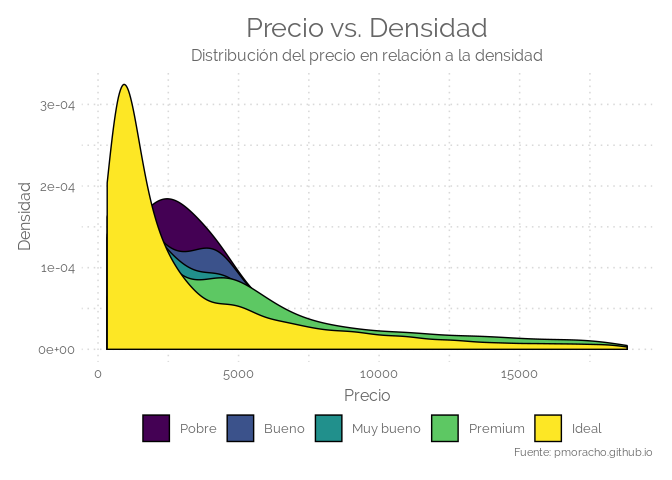
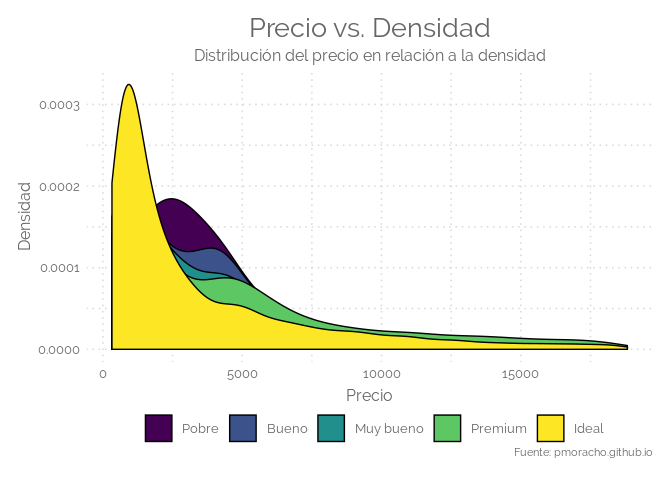
Work on new ggplot sample post

diff --git a/_posts/2019/2019-03-10-sample-ggplot-plots.md b/_posts/2019/2019-03-10-sample-ggplot-plots.md
@@ -288,6 +288,7 @@ Un gráfico de densidad muestra la distribución de una variable numérica. Sól
 library(ggplot2)
 
 data("diamonds")
+options(scipen=999)
 levels(diamonds$cut) <- c("Pobre", "Bueno", "Muy bueno", "Premium", "Ideal")
 
 # plot 1: Density of price for each type of cut of the diamond:
@@ -345,8 +346,104 @@ ggplot(diamonds, aes(x=depth, y=..density..)) +
     theme_elegante()
 ```
 
-<img src="/images/2019/2019-03-10-sample-ggplot-plots_files/figure-markdown_github/density-4.png" style="display: block; margin-left: auto; margin-right: auto" /> \#\# Stacked area chart
+<img src="/images/2019/2019-03-10-sample-ggplot-plots_files/figure-markdown_github/density-4.png" style="display: block; margin-left: auto; margin-right: auto" />
+
+Stacked area chart
+------------------
 
 Un gráfico de área apilada es la extensión de un gráfico de área básico para mostrar la evolución del valor de varios grupos en el mismo gráfico. Los valores de cada grupo se muestran uno encima del otro. Permite comprobar en una misma figura, la evolución tanto del total de una variable numérica, como de la importancia de cada grupo. Si sólo le interesa la importancia relativa de cada grupo, probablemente debería dibujar un gráfico de área apilada en porcentaje. Tenga en cuenta que esta tabla se vuelve difícil de leer si se muestran demasiados grupos y si los patrones son realmente diferentes entre grupos. En este caso, piense en utilizar facetas en su lugar.
 
-<img src="/images/2019/2019-03-10-sample-ggplot-plots_files/figure-markdown_github/stacked_areas-1.png" style="display: block; margin-left: auto; margin-right: auto" /><img src="/images/2019/2019-03-10-sample-ggplot-plots_files/figure-markdown_github/stacked_areas-2.png" style="display: block; margin-left: auto; margin-right: auto" /><img src="/images/2019/2019-03-10-sample-ggplot-plots_files/figure-markdown_github/stacked_areas-3.png" style="display: block; margin-left: auto; margin-right: auto" />
+``` r
+# DATA
+library(ggplot2)
+
+set.seed(345)
+Sector <- rep(c("S01","S02","S03","S04","S05","S06","S07"),times=7)
+Year <- as.numeric(rep(c("1950","1960","1970","1980","1990","2000","2010"),each=7))
+Value <- runif(49, 10, 100)
+data <- data.frame(Sector,Year,Value)
+
+ggplot(data, aes(x=Year, y=Value, fill=Sector)) + 
+    geom_area() +
+    labs(title="Titulo del gráfico", 
+         subtitle="Subtitulo del gráfico", 
+         caption="Fuente: pmoracho.github.io", 
+         y="Valor", 
+         x="Año") +
+    theme_elegante()
+```
+
+<img src="/images/2019/2019-03-10-sample-ggplot-plots_files/figure-markdown_github/stacked_areas-1.png" style="display: block; margin-left: auto; margin-right: auto" />
+
+``` r
+ggplot(data, aes(x=Year, y=Value, fill=Sector)) +
+    geom_area(colour="black", size=.2, alpha=.4) +
+    scale_fill_brewer(palette="Greens", breaks=rev(levels(data$Sector))) +
+    labs(title="Titulo del gráfico", 
+         subtitle="Subtitulo del gráfico", 
+         caption="Fuente: pmoracho.github.io", 
+         y="Valor", 
+         x="Año") +
+    theme_elegante()
+```
+
+<img src="/images/2019/2019-03-10-sample-ggplot-plots_files/figure-markdown_github/stacked_areas-2.png" style="display: block; margin-left: auto; margin-right: auto" />
+
+``` r
+my_fun=function(vec){ as.numeric(vec[3]) / sum(data$Value[data$Year==vec[2]]) *100 }
+data$prop=apply(data , 1 , my_fun)
+ 
+ggplot(data, aes(x=Year, y=prop, fill=Sector)) + 
+    geom_area(alpha=0.6 , size=1, colour="black") +
+    labs(title="Titulo del gráfico", 
+         subtitle="Subtitulo del gráfico", 
+         caption="Fuente: pmoracho.github.io", 
+         y="Valor", 
+         x="Año") +
+        theme_elegante()
+```
+
+<img src="/images/2019/2019-03-10-sample-ggplot-plots_files/figure-markdown_github/stacked_areas-3.png" style="display: block; margin-left: auto; margin-right: auto" />
+
+Streamgraphs
+------------
+
+Un gráfico Stream está muy cerca de un gráfico de área apilada. Muestra la evolución de un valor numérico (eje Y) en función de otro valor numérico (eje X). Esta evolución está representada por varios grupos, todos con un color distinto. A diferencia de un área apilada, no hay ninguna esquina: los bordes son redondeados, lo que da esta agradable impresión de flujo. Los gráficos de streaming son muy útiles cuando se muestran en modo interactivo: resaltar un grupo le da directamente una idea de su evolución. R permite crear fácilmente gráficos streaming gracias a la biblioteca de gráficos streaming.
+
+``` r
+library(ggTimeSeries)
+library(ggplot2)
+
+set.seed(10)
+dfData = data.frame(
+   Time = 1:1000,
+   Signal = abs(
+      c(
+         cumsum(rnorm(1000, 0, 3)), 
+         cumsum(rnorm(1000, 0, 4)), 
+         cumsum(rnorm(1000, 0, 1)),
+         cumsum(rnorm(1000, 0, 2))
+      )
+   ),
+   VariableLabel = c(rep('Class A', 1000),
+                     rep('Class B', 1000),
+                     rep('Class C', 1000),
+                     rep('Class D', 1000))
+)
+
+# base plot
+ggplot(dfData,
+       aes(x = Time,
+           y = Signal,
+           group = VariableLabel,
+           fill = VariableLabel)) +
+    stat_steamgraph() +
+    labs(title="Titulo del gráfico", 
+         subtitle="Subtitulo del gráfico", 
+         caption="Fuente: pmoracho.github.io", 
+         y="Señal", 
+         x="Tiempo") +
+    theme_elegante()
+```
+
+<img src="/images/2019/2019-03-10-sample-ggplot-plots_files/figure-markdown_github/streamgraphs-1.png" style="display: block; margin-left: auto; margin-right: auto" />
